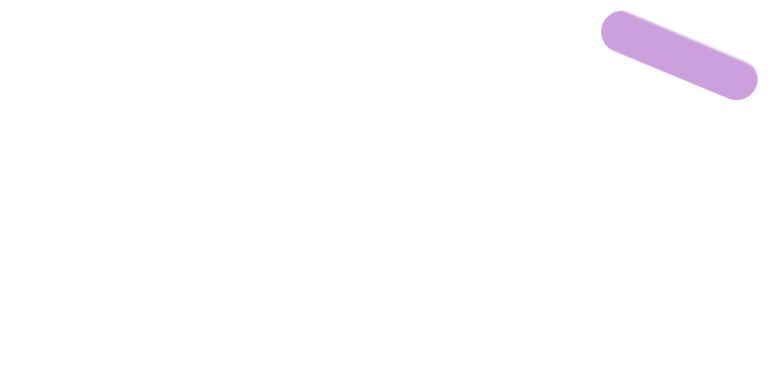
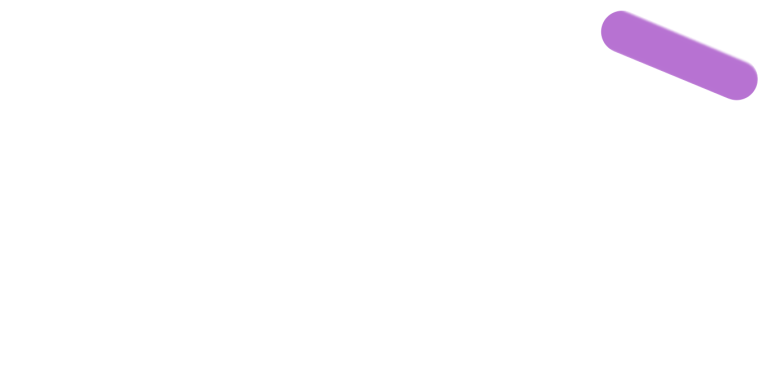
fix(icd001): advanced control v2 design review round 1 (tint, footer, Stop shadow)
- Part tint tuned to design mean colour (sum|diff| <= 12 per part), constants in
  STAGE_TINT: upper 0.6 x A/100 (4), lower 0.43 x B/100 (9), head 0.68 (4),
  bullet 0.34 (8). Raising opacity overshoots because the design uses
  mix-blend-mode:color; tint-egg darkened hue-kept (L x0.85, S x1.1, prescribed
  fallback), tint-head L x1.04 (opacity alone bottoms out at ~14).
- "Leaving this page stops all outputs." now renders above the dock scrim, so it
  shows the spec ink-3 #978C93 (5.8:1 on bg, AA).
- Stop all shadow lightened: shadowOpacity 0.6 -> 0.25, elevation 8 -> 4.
- Tests: tint expectations read STAGE_TINT; icd001 118/118.

Changed region(s): [[0.7692, 0.0299, 0.9846, 0.269]]

diff --git a/src/screens/advanced-control/controller.ts b/src/screens/advanced-control/controller.ts
@@ -157,7 +157,7 @@ export interface AdvancedControlView {
   /**
    * Product stage: dim = disconnected / E-stop (grey product); compact = a row is
    * expanded or outputs are paused; tint = per-part accent overlay opacity 0..1
-   * (upper = A, lower = B at intensity/100 × 0.6; head / egg while their row is open).
+   * (upper = A, lower = B at intensity/100 × STAGE_TINT; head / egg while their row is open).
    */
   stage: {
     dim: boolean;
@@ -172,6 +172,13 @@ export interface AdvancedControlView {
 type Listener = () => void;
 
 const CARD_NAME: Record<CardId, string> = { wing: 'Wings', vcm: 'Pulse', egg: 'Bullet' };
+
+/**
+ * Tinted-PNG overlay opacities, tuned against design v2 (CSS blend) by mean
+ * colour per part (call-qa/adv-control-v2/boards/tint-closeup.png).
+ * upper / lower are scaled by the group level (0..100).
+ */
+export const STAGE_TINT = { upper: 0.6, lower: 0.43, head: 0.68, egg: 0.34 } as const;
 
 export class AdvancedControlController {
   private listeners = new Set<Listener>();
@@ -665,10 +672,10 @@ export class AdvancedControlController {
       const t = this.now();
       const va = t - this.inputAt.A <= OPTIMISTIC_MS ? this.wing.values.A : a;
       const vb = t - this.inputAt.B <= OPTIMISTIC_MS ? this.wing.values.B : b;
-      tint.upper = (Math.max(0, Math.min(100, va)) / 100) * 0.6;
-      tint.lower = (Math.max(0, Math.min(100, vb)) / 100) * 0.6;
-      tint.head = this.expanded === 'vcm' ? 0.6 : 0;
-      tint.egg = this.expanded === 'egg' ? 0.45 : 0;
+      tint.upper = (Math.max(0, Math.min(100, va)) / 100) * STAGE_TINT.upper;
+      tint.lower = (Math.max(0, Math.min(100, vb)) / 100) * STAGE_TINT.lower;
+      tint.head = this.expanded === 'vcm' ? STAGE_TINT.head : 0;
+      tint.egg = this.expanded === 'egg' ? STAGE_TINT.egg : 0;
     }
     return {
       dim: screen.kind === 'disconnected' || screen.kind === 'estop',

diff --git a/__tests__/icd001/advanced-controller.test.ts b/__tests__/icd001/advanced-controller.test.ts
@@ -5,6 +5,7 @@ import {
   IntensityView,
   RhythmView,
   SensorView,
+  STAGE_TINT,
 } from '../../src/screens/advanced-control/controller';
 import { Icd001Client } from '../../src/services/icd001/client';
 import { MockIcd001Device, MockIcd001Transport } from '../../src/services/icd001/mock';
@@ -238,15 +239,13 @@ describe('AdvancedControlController (view-model) on the simulator', () => {
     expect(t.wing().row).toEqual({ kind: 'ab', A: 60, B: 40 });
     expect(t.pulse().row).toEqual({ kind: 'hz', hz: 10 });
     expect(t.egg()?.row.kind).toBe('bpm');
-    expect(t.v().stage).toEqual({
-      dim: false,
-      compact: false,
-      tint: { upper: 0.36, lower: 0.24, head: 0, egg: 0 },
-    });
+    expect(t.v().stage).toMatchObject({ dim: false, compact: false, tint: { head: 0, egg: 0 } });
+    expect(t.v().stage.tint.upper).toBeCloseTo(0.6 * STAGE_TINT.upper);
+    expect(t.v().stage.tint.lower).toBeCloseTo(0.4 * STAGE_TINT.lower);
     t.ctl.selectPart('head');
-    expect(t.v().stage).toMatchObject({ compact: true, tint: { head: 0.6, egg: 0 } });
+    expect(t.v().stage).toMatchObject({ compact: true, tint: { head: STAGE_TINT.head, egg: 0 } });
     t.ctl.selectPart('bullet');
-    expect(t.v().stage.tint).toMatchObject({ head: 0, egg: 0.45 });
+    expect(t.v().stage.tint).toMatchObject({ head: 0, egg: STAGE_TINT.egg });
     t.ctl.collapse();
     t.ctl.stopAll();
     await tick(300);

diff --git a/src/screens/advanced-control/index.tsx b/src/screens/advanced-control/index.tsx
@@ -167,17 +167,18 @@ export const AdvancedControlScreen = () => {
         ) : null}
         <View style={styles.mods}>{rows.map(renderRow)}</View>
       </ScrollView>
-      {showLeave ? (
-        <View style={[styles.leaveWrap, { bottom: stopBottom + 74 }]} pointerEvents="none">
-          <Text style={styles.leave}>Leaving this page stops all outputs.</Text>
-        </View>
-      ) : null}
       <StopDock
         engaged={view.estop.on}
         bottom={stopBottom}
         onStop={() => ctl.stopAll()}
         onRelease={() => ctl.release()}
       />
+      {/* Above the dock scrim, like the design (.leave z-index 4). */}
+      {showLeave ? (
+        <View style={[styles.leaveWrap, { bottom: stopBottom + 74 }]} pointerEvents="none">
+          <Text style={styles.leave}>Leaving this page stops all outputs.</Text>
+        </View>
+      ) : null}
       {wing ? (
         <FineTuneSheet
           visible={fineTune && wing.enabled}

diff --git a/src/screens/advanced-control/components/StopDock.tsx b/src/screens/advanced-control/components/StopDock.tsx
@@ -69,10 +69,10 @@ const styles = StyleSheet.create({
     height: 58,
     borderRadius: N.radius.l,
     shadowColor: '#000',
-    shadowOpacity: 0.6,
+    shadowOpacity: 0.25,
     shadowRadius: 12,
     shadowOffset: { width: 0, height: 10 },
-    elevation: 8,
+    elevation: 4,
   },
   stop: {
     height: 58,
@@ -102,10 +102,10 @@ const styles = StyleSheet.create({
     borderWidth: 1,
     borderColor: N.stopEngRing,
     shadowColor: '#000',
-    shadowOpacity: 0.6,
+    shadowOpacity: 0.25,
     shadowRadius: 12,
     shadowOffset: { width: 0, height: 10 },
-    elevation: 8,
+    elevation: 4,
   },
   engLeft: { flexDirection: 'row', alignItems: 'center' },
   engText: { ...text(qs.bold, 17, N.stopEngInk), marginLeft: 10 },
